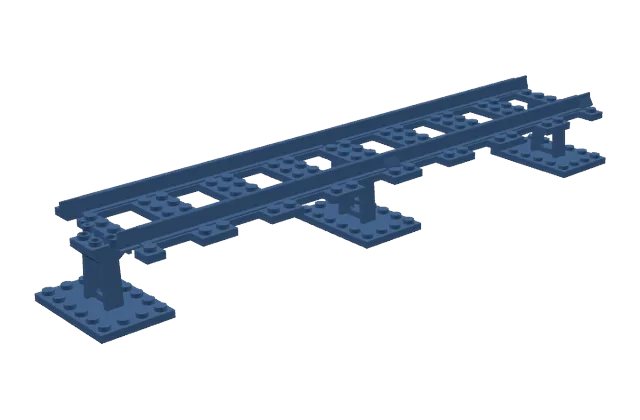
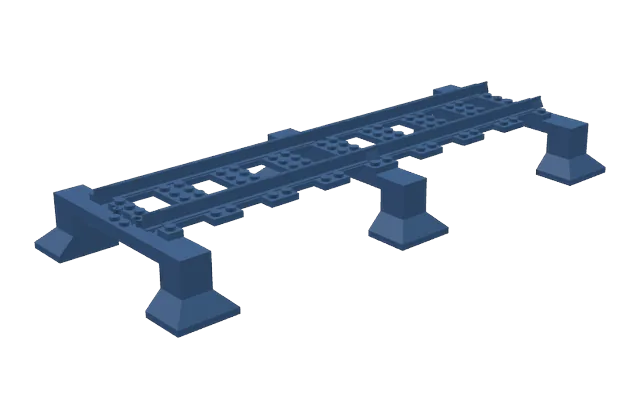
feat: raised train track on pillars, as the reference's, holding track over track (a helix's upper turn)
- Printed: every 16 studs, a beam across under the track, a 2 x 2 of studs on top under its middle, on two
  square pillars beside the track (5.5 studs out from its centre line), each on a foot flared at 45 degrees
  away from the track and hollow underneath. The reference's viaducts are built so: a cross beam on two
  pillars, one each side of the track. Printed as it stands: the beam bridges from pillar to pillar.
- Track over other track: the upper track's beam goes on the lower track's pillars, carried on up past it,
  so one part holds both; the pillars stand beside the lower track, clear of its trains and its sleepers.
  Where there are no pillars below to share, they're moved a little along to a place clear of the track below;
  only where none is clear is it said. Round the helix every place is held up now (before, the upper turn
  had nothing under it wherever it was over the lower one).
- LEGO bricks: as before (2 x 8 bricks and plates under the track's middle), and over other track 2 x 2 brick
  pillars beside it under two 2 x 14 plates, in the parts list.
- Lower than a brick: LEGO 2 x 8 plates, as before. The monorail's own supports are unchanged.
- The colour's name in the 3D view: pillars and supports under raised track. The setting's pictures again.
- Tests: the helix and the grade, printed and LEGO, every place held up, nothing of the pillars where a
  train on the track below runs, nor on the sleepers of track on the baseplate, and each part fits the bed.

Changed region(s): [[0.0312, 0.1857, 0.9688, 0.8357]]

diff --git a/src/app/build.ts b/src/app/build.ts
@@ -3,7 +3,6 @@
 // the pieces: a switch wherever routes split (base and moving parts), the
 // rest as fixed trackwork. Runs in the worker (and in tests).
 import { Scad, R, T, type Man } from '../geom/scad';
-import { SUPPORT_DEFAULTS, supportHeight, supportPart } from '../geom/monorail';
 import { sweepRoute } from '../geom/sweep';
 import { DEFAULTS as TRACK_DEFAULTS, PLATE_H, Track } from '../geom/track';
 import { CROSSING_DEFAULTS, crossingPiece, joinedEnds } from '../geom/crossing';
@@ -454,51 +453,116 @@ function graded(w: Wasm, design: Design, res: ReturnType<typeof buildLevel>): Re
     if (!g || (g.h === 0 && g.slope === 0)) return p;
     return { ...p, positions: lift(p.positions, c, g), ...(p.supports && { supports: lift(p.supports, c, g) }) };
   });
-  // (what it stands on, every 16 studs from each route's start: LEGO 2 x 8 bricks and plates, or printed supports (the
-  // monorail's, a 2 x 2 top under the track's middle, a 6 x 4 base, tilted to the grade), from the baseplate up to its
-  // bottom (the ballast's). Not over other track, as round a helix: nothing stands on track, a deck between them isn't built yet)
+  // (what it stands on, every 16 studs from each route's start, as the reference's train track on pillars: a beam
+  // across under the track, a stud's room past each rail's side, on two square pillars beside the track, from the
+  // baseplate up, each on a flared foot (printed, or LEGO 2 x 2 bricks under a 2 x 14 plate beam). Where track runs
+  // over other track (round a helix), the upper track's beam is on the same pillars as the lower one's, carried on up
+  // past it: the pillars stand beside the lower track, clear of its trains, and hold both. Lower than a brick (no room
+  // for a foot and a beam), under nothing else: LEGO 2 x 8 bricks and plates under the track's middle, as before)
   const o = { ...OPTION_DEFAULTS, ...design.options };
   const ballastH = o.ballast === 'buddy' ? 6.4 : o.ballast === 'ballast' ? 3.2 : 0;
-  const overOther = (q: [number, number], h: number) => rts.some(({ r, rt }) => {
-    const L = routeLength(rt);
-    for (let sv = 0; sv <= L; sv += 8) {
-      const p = routePose(rt, sv);
-      if (Math.abs(p[0] - q[0]) < 40 && Math.abs(p[1] - q[1]) < 40 && Math.hypot(p[0] - q[0], p[1] - q[1]) < 40 && gradeAt(r, L, sv) < h - GRADE_APART) return true;
-    }
-    return false;
-  });
   const risers: LegoPart[] = []; const stacks: number[] = [];
   const addPart = (part: string, name: string, qty: number) => { if (qty <= 0) return; const e = risers.find((x) => x.part === part); if (e) e.qty += qty; else risers.push({ part, name, qty }); };
-  const scad = new Scad(w), so = { ...SUPPORT_DEFAULTS, baseXStuds: 6, baseYStuds: 4 };
-  let n = 0, skipped = 0;
+  // (the places, the lowest first: each one over another's, near enough along the same way, put on its pillars)
+  type Spot = { q: Pose; h: number; at: (d: number) => Spot };
+  const towers: { q: Pose; levels: number[] }[] = [];
+  const spots: Spot[] = [];
   for (const { r, rt } of rts) {
-    const L = routeLength(rt), slope = L > 0 ? (gradeAt(r, L, L) - gradeAt(r, L, 0)) / L : 0;
-    for (let sv = 0; sv <= L + 1e-6; sv += 128) {
-      const q = routePose(rt, sv), h = gradeAt(r, L, sv) - ballastH;
-      if (h < 3.2 - 1e-6) continue;
-      if (overOther([q[0], q[1]], h + ballastH)) { skipped++; continue; }
-      // (lower than a brick: LEGO plates, printed or not; a printed support that low has no room for its legs)
-      if (o.raisedOn === 'lego' || h < 9.6 - 1e-6) {
-        const pl = Math.round(h / 3.2); addPart('3007', 'Brick 2 x 8', Math.floor(pl / 3)); addPart('3034', 'Plate 2 x 8', pl % 3);
-        // (for the view: the stack, 8 studs across the track and 2 along it, turned with it)
-        stacks.push(...boxTris(q, 64, 16, pl * 3.2));
-        continue;
-      }
-      // (printed: as tall as the track's bottom there, its top tilted to the grade; turned with the track)
-      const bricks = Math.floor((h + 0.01) / 9.6), flat = Math.abs(slope) < 1e-4, so2 = { ...so, bricks, plates: (h - bricks * 9.6) / 3.2 };
-      const sp = cachedData(`tsup:${JSON.stringify(so2)}:${slope.toFixed(5)}`, () => arena(w, () => {
-        let m = supportPart(scad, so2);
-        if (!flat) { const H = supportHeight(so2); m = m.refineToLength(2).warp((v) => { const k = Math.min(1, Math.max(0, (v[2] - (H - 8)) / 8)); v[2] += k * v[1] * slope; }); }
-        return { stl: stlBytes(m.getMesh(), true), positions: meshPositions(m.getMesh()) };
-      }, () => []));
-      const pos = sp.positions.slice(), a = (q[2] * Math.PI) / 180, c = Math.cos(a), sn = Math.sin(a);
-      for (let i = 0; i < pos.length; i += 3) { const x = pos[i], y = pos[i + 1]; pos[i] = q[0] + x * c - y * sn; pos[i + 1] = q[1] + x * sn + y * c; }
-      pieces.push({ name: `track-support${++n}`, color: 0x5a6470, positions: pos, stl: sp.stl.slice() });
-    }
+    const L = routeLength(rt);
+    const spotAt = (sv: number): Spot => ({ q: routePose(rt, sv), h: gradeAt(r, L, sv) - ballastH, at: (d) => spotAt(Math.min(L, Math.max(0, sv + d))) });
+    for (let sv = 0; sv <= L + 1e-6; sv += 128) { const sp = spotAt(sv); if (sp.h >= 3.2 - 1e-6) spots.push(sp); }
   }
-  if (skipped) warnings.push(`${skipped} of the places a raised track stands over other track (as round a helix): nothing's put there to hold it up (nothing stands on track; a deck between them isn't built yet)`);
+  spots.sort((a, b) => a.h - b.h);
+  const turnDiff = (a: number, b: number) => Math.abs(((a - b + 540) % 360) - 180);
+  // (raised track's places closer than this along, one over the other: on the same pillars)
+  const SNAP = 64;
+  /** Other track lower than h near q (its centre line within reach mm of q), at heights (track bottom) and lateral distances. */
+  const lowerNear = (q: [number, number], h: number, reach: number) => {
+    const out: { lat: number; h: number }[] = [];
+    for (const { r, rt } of rts) {
+      const L = routeLength(rt);
+      for (let sv = 0; sv <= L; sv += 4) {
+        const p = routePose(rt, sv), d = Math.hypot(p[0] - q[0], p[1] - q[1]), hh = gradeAt(r, L, sv);
+        if (d < reach && hh < h - GRADE_APART) out.push({ lat: d, h: hh });
+      }
+    }
+    return out;
+  };
+  const PILLAR_X = 44, PILLAR = 16 - 0.2, BEAM_T = 6.4, TRAIN_HW = 28;
+  let skipped = 0;
+  for (const sp of spots) {
+    const t = towers.find((tw) => Math.hypot(tw.q[0] - sp.q[0], tw.q[1] - sp.q[1]) < SNAP && (turnDiff(tw.q[2], sp.q[2]) < 10 || turnDiff(tw.q[2], sp.q[2]) > 170));
+    if (t && sp.h - t.levels[t.levels.length - 1] >= GRADE_APART) { t.levels.push(sp.h); continue; }
+    if (t) continue; // (as good as the same place, the same height: one beam holds it)
+    // (a place over other track not on pillars of its own: its pillars beside it clear of that track's trains; else a
+    // little along, up to half the way to the next place)
+    // (and its feet off the sleepers of track on the baseplate there, 4 studs either side of it)
+    const clear = (c: Spot) => [-1, 1].every((sd) => !lowerNear(poseToWorld(c.q, [sd * PILLAR_X, 0]) as [number, number], c.h + ballastH, TRAIN_HW + PILLAR / 2).length
+      && !lowerNear(poseToWorld(c.q, [sd * (PILLAR_X - PILLAR / 2), 0]) as [number, number], c.h + ballastH, 33).some((l) => l.h < 12)
+      && [-1, 1].every((e) => !lowerNear(poseToWorld(c.q, [sd * (PILLAR_X - PILLAR / 2), e * 16]) as [number, number], c.h + ballastH, 33).some((l) => l.h < 12)));
+    const at = [0, 16, -16, 32, -32, 48, -48, 64, -64].map((d) => sp.at(d)).find(clear);
+    if (!at) { skipped++; continue; }
+    towers.push({ q: at.q, levels: [at.h] });
+  }
+  const scad = new Scad(w);
+  let n = 0;
+  for (const tw of towers) {
+    const { q, levels } = tw, top = levels[levels.length - 1];
+    // (one level, lower than a brick and a beam: LEGO plates under the track's middle, printed or not)
+    if (levels.length === 1 && (o.raisedOn === 'lego' ? !lowerNear([q[0], q[1]], top + ballastH, 40).length : top < 9.6 - 1e-6)) {
+      const pl = Math.round(top / 3.2); addPart('3007', 'Brick 2 x 8', Math.floor(pl / 3)); addPart('3034', 'Plate 2 x 8', pl % 3);
+      stacks.push(...boxTris(q, 64, 16, pl * 3.2));
+      continue;
+    }
+    if (o.raisedOn === 'lego') {
+      // (2 x 2 brick pillars up to the top beam, a beam of two 2 x 12 plates under each level; heights to the plate)
+      for (const sd of [-1, 1]) {
+        const pl = Math.max(0, Math.round((top - 6.4) / 3.2)), pq = poseToWorld(q, [sd * PILLAR_X, 0]);
+        addPart('3003', 'Brick 2 x 2', Math.floor(pl / 3)); addPart('3022', 'Plate 2 x 2', pl % 3);
+        stacks.push(...boxTris([pq[0], pq[1], q[2]], 16, 16, pl * 3.2));
+      }
+      for (const h of levels) { addPart('91988', 'Plate 2 x 14', 2); const b = boxTris(q, 112, 16, 6.4); for (let i = 2; i < b.length; i += 3) b[i] += Math.round(h / 3.2) * 3.2 - 6.4; stacks.push(...b); }
+      continue;
+    }
+    const sp = cachedData(`tpillar:${JSON.stringify(levels.map((h) => +h.toFixed(2)))}`, () => arena(w, () => {
+      const m = trainPillars(scad, levels, PILLAR_X, PILLAR, BEAM_T);
+      return { stl: stlBytes(m.getMesh(), true), positions: meshPositions(m.getMesh()) };
+    }, () => []));
+    const pos = sp.positions.slice(), a = (q[2] * Math.PI) / 180, c = Math.cos(a), sn = Math.sin(a);
+    for (let i = 0; i < pos.length; i += 3) { const x = pos[i], y = pos[i + 1]; pos[i] = q[0] + x * c - y * sn; pos[i + 1] = q[1] + x * sn + y * c; }
+    pieces.push({ name: `track-support${++n}`, color: 0x5a6470, positions: pos, stl: sp.stl.slice() });
+  }
+  if (skipped) warnings.push(`${skipped} of the places a raised track crosses over other track: nothing's put there to hold it up (its pillars would stand in the lower track's way): cross where the track below runs alongside, or carry it on a bridge`);
   if (risers.length) pieces.push({ name: 'risers-bought', color: LEGO_COLOR, positions: Float32Array.from(stacks), stl: new Uint8Array(0), lego: risers });
   return { ...res, pieces, info: { ...res.info, warnings } };
+}
+
+/**
+ * Train track's pillars (in mm, the track's frame: x across, y along, z up from the baseplate), as the reference's:
+ * two square pillars x either side of the track's centre line, each on a flared foot hollow underneath (it sits over
+ * the baseplate's studs), and at each level (the track's bottom there, the lowest first) a beam across between them,
+ * a 2 x 2 of studs on top under the track's middle. The pillars go up to the top beam, past the lower ones. Printed
+ * as it stands: the beams bridge from pillar to pillar, the feet slope at 45 degrees.
+ */
+function trainPillars(s: Scad, levels: number[], x: number, side: number, beamT: number): Man {
+  // (the flare less on a low one, the foot's slope kept under the beam)
+  const top = levels[levels.length - 1], foot = 32 - 0.2, footT = 3.2, flare = Math.max(0.01, Math.min((foot - side) / 2, levels[0] - beamT - footT));
+  const parts: Man[] = [];
+  for (const sd of [-1, 1]) {
+    const cx = sd * x, inner = cx - (sd * side) / 2, outer = cx + (sd * foot) / 2, fw = foot / 2 + side / 2;
+    // (the foot: a plate, then up at 45 degrees to the pillar; flush with the pillar on the track's side, so it keeps
+    // clear of the sleepers of track below, as round a helix's start)
+    const slope = s.w.Manifold.hull([T(s.cube([fw, foot, footT]), [Math.min(inner, outer), -foot / 2, 0]), T(s.cube([side, side, 0.01]), [cx - side / 2, -side / 2, footT + flare])]);
+    parts.push(slope, T(s.cube([side, side, top - beamT - footT + 0.01]), [cx - side / 2, -side / 2, footT]));
+  }
+  for (const h of levels) {
+    const hw = x + side / 2;
+    parts.push(T(s.cube([2 * hw, side, beamT]), [-hw, -side / 2, h - beamT]));
+    for (const [sx, sy] of [[-4, -4], [4, -4], [-4, 4], [4, 4]]) parts.push(T(s.cylinder(1.8, 4.8 / 2, 4.8 / 2, 24), [sx, sy, h - 0.01]));
+  }
+  // (each foot hollow underneath, a rim round it)
+  const holes = [-1, 1].map((sd) => { const inner = sd * x - (sd * side) / 2, w0 = foot / 2 + side / 2 - 2.4; return T(s.cube([w0, foot - 2.4, 1.8]), [sd > 0 ? inner + 1.2 : inner - 1.2 - w0, -(foot - 2.4) / 2, -0.01]); });
+  return s.difference(s.union(parts), holes);
 }
 
 /** The train track's build, all of it level. */

diff --git a/test/train-supports.test.ts b/test/train-supports.test.ts
@@ -1,0 +1,69 @@
+// Raised train track stands on pillars, as the reference's: a beam across under the track on two pillars beside it.
+// Round the helix the upper turn's beam is on the lower turn's pillars, carried on up: every place held up, and
+// nothing in the lower track's trains' way (6 studs wide, as tall as a LEGO train and some).
+import { describe, expect, it } from 'vitest';
+import { buildDesign, clearBuildCache, gradeAt } from '../src/app/build';
+import { OPTION_DEFAULTS, type PieceOptions, TEMPLATES, toRoutes } from '../src/app/design';
+import { kernel } from '../src/geom/kernel';
+import { routeLength, routePose } from '../src/route/route';
+
+const APP = (globalThis as { APP_DEFAULTS?: PieceOptions }).APP_DEFAULTS!;
+/** Half a LEGO train's width and a little, and how tall it is over its track's bottom (mm). */
+const TRAIN_HW = 28, TRAIN_H = 100;
+
+describe('raised train track on pillars', { timeout: 600000 }, () => {
+  for (const name of ['Helix (R104, two turns)', 'Grade up at 2.5%'])
+    for (const raisedOn of ['printed', 'lego'] as const)
+      it(`${name}, ${raisedOn}: every place held up, nothing in the lower track's way`, async () => {
+        const saved = { ...OPTION_DEFAULTS };
+        Object.assign(OPTION_DEFAULTS, APP);
+        try {
+          clearBuildCache();
+          const d = structuredClone(TEMPLATES[name]);
+          d.options = { ...d.options, raisedOn };
+          const b = buildDesign(await kernel(), d);
+          expect(b.info.warnings.filter((w) => /hold it up/.test(w))).toEqual([]);
+          const sup = b.pieces.filter((p) => /^track-support/.test(p.name));
+          if (raisedOn === 'printed') expect(sup.length).toBeGreaterThan(0);
+          else expect(sup.length).toBe(0);
+          // (the track's centre line, every 4 mm, at its height (its bottom))
+          const line: [number, number, number][] = [];
+          for (const r of d.routes) {
+            const rt = toRoutes({ ...d, routes: [r] })[0];
+            if (!rt) continue;
+            const L = routeLength(rt);
+            for (let s = 0; s <= L; s += 4) { const p = routePose(rt, s); line.push([p[0], p[1], gradeAt(r, L, s)]); }
+          }
+          for (const p of sup) {
+            const v = p.positions;
+            // (the part fits the bed: 256 square)
+            let x0 = Infinity, y0 = Infinity, x1 = -Infinity, y1 = -Infinity;
+            for (let i = 0; i < v.length; i += 3) { x0 = Math.min(x0, v[i]); x1 = Math.max(x1, v[i]); y0 = Math.min(y0, v[i + 1]); y1 = Math.max(y1, v[i + 1]); }
+            expect(Math.hypot(x1 - x0, y1 - y0)).toBeLessThan(256);
+            // (none of it where a train on track below runs, above its rails: no corner there, and no tall side (a
+            // pillar's) up through there)
+            const bad: string[] = [];
+            const segDist = (px: number, py: number, ax: number, ay: number, bx: number, by: number) => {
+              const dx = bx - ax, dy = by - ay, l2 = dx * dx + dy * dy, t = l2 ? Math.max(0, Math.min(1, ((px - ax) * dx + (py - ay) * dy) / l2)) : 0;
+              return Math.hypot(px - ax - t * dx, py - ay - t * dy);
+            };
+            for (const [lx, ly, lh] of line) {
+              if (lx < x0 - TRAIN_HW || lx > x1 + TRAIN_HW || ly < y0 - TRAIN_HW || ly > y1 + TRAIN_HW) continue;
+              const z0 = lh + 10, z1 = lh + TRAIN_H;
+              for (let i = 0; i < v.length; i += 9) {
+                const zs = [v[i + 2], v[i + 5], v[i + 8]], lo = Math.min(...zs), hi = Math.max(...zs);
+                if ((hi <= z0 || lo >= z1) && !(lh < 3.2 && lo < 12)) continue;
+                // (the triangle's footprint: its corners, and for a tall side the line along its foot)
+                const near = [0, 3, 6].some((k) => Math.hypot(v[i + k] - lx, v[i + k + 1] - ly) < TRAIN_HW)
+                  || [[0, 3], [3, 6], [6, 0]].some(([a, c]) => segDist(lx, ly, v[i + a], v[i + a + 1], v[i + c], v[i + c + 1]) < TRAIN_HW);
+                // (and by track on the baseplate, nothing on its sleepers (32 either side), up to its rails' top)
+                const onBed = lh < 3.2 && lo < 12 && [0, 3, 6].some((k) => v[i + k + 2] < 12 && Math.hypot(v[i + k] - lx, v[i + k + 1] - ly) < 33);
+                if (near || onBed) { bad.push(`${p.name} over ${lx.toFixed(0)}, ${ly.toFixed(0)} (height ${lh.toFixed(0)}): ${lo.toFixed(0)} to ${hi.toFixed(0)}`); break; }
+              }
+              if (bad.length) break;
+            }
+            expect(bad.slice(0, 5).join('; ')).toBe('');
+          }
+        } finally { Object.assign(OPTION_DEFAULTS, saved); clearBuildCache(); }
+      });
+});

diff --git a/src/app/settings.ts b/src/app/settings.ts
@@ -58,8 +58,8 @@ export function optionForm(d: () => Design): { form: OptSection[]; noMono: (c?: 
       { key: 'raisedOn', label: 'Raised track stands on', get: () => d().options?.raisedOn ?? 'printed', set: (v) => { d().options = { ...d().options, raisedOn: v as 'printed' | 'lego' }; }, def: 'printed',
         off: () => (d().routes.some((r) => !isMono(r) && ((r.monoHeight ?? 0) > 0 || (r.monoHeightEnd ?? 0) > 0)) ? undefined : 'no train route is raised: give one a Height on its card (Place)'),
         help: 'What holds up train track off the baseplate (a route\'s Height, End height), every 16 studs.', choices: [
-        { v: 'printed', t: 'Printed supports', tip: 'A support every 16 studs, as the monorail\'s: a 6 x 4 base gripping the baseplate, two legs, a 2 x 2 top the track\'s underside grips, tilted to the grade. One part each; lower than a brick, LEGO 2 x 8 plates instead.', con: 'Parts to print, tall ones on a high track.' },
-        { v: 'lego', t: 'LEGO bricks', tip: 'Stacks of LEGO 2 x 8 bricks and plates every 16 studs, in the parts list.', con: 'A lot of bricks for a high track (a helix\'s top turn).' }] },
+        { v: 'printed', t: 'Printed pillars', tip: 'Every 16 studs, a beam across under the track on two pillars beside it, each on a flared foot. Track over other track (a helix) goes on the same pillars, carried up past the lower track, clear of its trains. One part each; lower than a brick and a beam, LEGO 2 x 8 plates instead.', con: 'Parts to print, tall ones on a high track.' },
+        { v: 'lego', t: 'LEGO bricks', tip: 'Stacks of LEGO 2 x 8 bricks and plates every 16 studs, in the parts list. Over other track: 2 x 2 brick pillars beside it under 2 x 14 plates.', con: 'A lot of bricks for a high track (a helix\'s top turn).' }] },
       { key: 'curveStuds', label: 'Studs on the track', choices: [
         { v: 'grid', t: 'On the baseplate grid', tip: 'Every stud lines up with the baseplate. On curves they form a grid, not rows.' },
         { v: 'follow', t: 'In rows along the track', tip: 'Rows across the track, like LEGO track, so tiles fit across curves.', con: 'On curves the studs are off the baseplate grid.' }], help: 'With Sleepers with gaps (no ballast), only where the bed is solid (switches, crossings): the sleepers\' own studs always run along the track.' },

diff --git a/src/app/main.ts b/src/app/main.ts
@@ -647,7 +647,7 @@ function applyExplode() {
 explodeEl.addEventListener('input', applyExplode);
 // The 3D view's colours: what each colour of the parts shown is (only those there are).
 const COLOURS: [number, string][] = [
-  [0x6f7780, 'printed track'], [0x9aa3ad, 'printed monorail track'], [0x5a6470, 'monorail supports'], [0x4682b4, 'points (blades), monorail frame'],
+  [0x6f7780, 'printed track'], [0x9aa3ad, 'printed monorail track'], [0x5a6470, 'pillars and supports under raised track'], [0x4682b4, 'points (blades), monorail frame'],
   [0xc0392b, 'points spring'], [0xe8892b, 'throw'], [0xd4af37, 'lever'], [0x8a8f99, 'throw bracket'],
   [LEGO_COLOR, 'LEGO\'s (bought, not printed)'], [BRICKTRACKS_COLOR, 'BrickTracks\' (bought, not printed)'],
 ];
